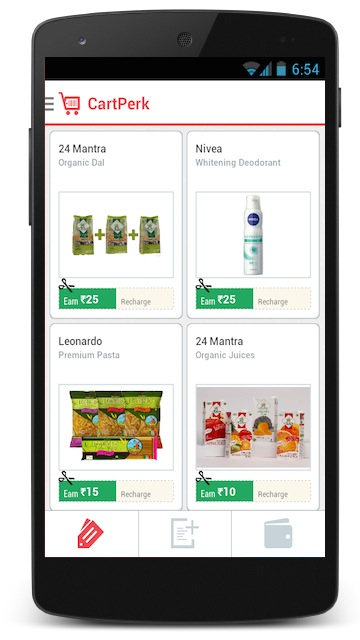
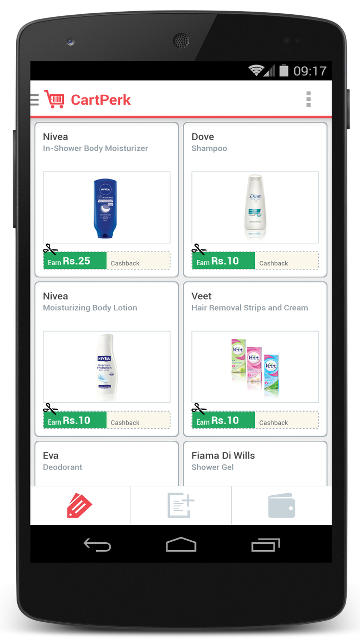
* Update images

diff --git a/index.html b/index.html
@@ -1,18 +1,17 @@
 <!DOCTYPE html>
 <html>
 <head>
-	<title>CartPerk - Go Shopping Get Rewarded</title>
-	<meta charset="utf-8" />
-	<meta content="width=device-width, initial-scale=1, maximum-scale=1" name="viewport">
-	<meta name="twitter:card" content="app">
-	<meta name="twitter:app:name:googleplay" content="CartPerk:Cashback for shopping">	
-	<meta name="twitter:app:id:googleplay" content="com.cartperk.android.cartperk">
-	<meta name="twitter:description" content="Perk up your shopping with CartPerk. Try it by downloading today.">	
-	<meta name="twitter:app:country" content="IN">	
-	<link rel="icon" href="favicon.ico" type="image/x-icon">
-	<link rel="shortcut icon" href="favicon.ico" type="image/x-icon">	
-    <!-- CSS 
-    ================================================== -->
+    <title>CartPerk - Go Shopping Get Rewarded</title>
+    <meta charset="utf-8" />
+    <meta content="width=device-width, initial-scale=1, maximum-scale=1" name="viewport">
+    <meta name="twitter:card" content="app">
+    <meta name="twitter:app:name:googleplay" content="CartPerk:Cashback for shopping">
+    <meta name="twitter:app:id:googleplay" content="com.cartperk.android.cartperk">
+    <meta name="twitter:description" content="Perk up your shopping with CartPerk. Try it by downloading today.">
+    <meta name="twitter:app:country" content="IN">
+    <link rel="icon" href="favicon.ico" type="image/x-icon">
+    <link rel="shortcut icon" href="favicon.ico" type="image/x-icon">
+    <!-- CSS================================================== -->
     <!-- Bootstrap 3-->
     <link href="css/bootstrap.min.css" rel="stylesheet" media="screen">
     <!-- Google Fonts -->
@@ -22,181 +21,171 @@
 </head>
 <body>
 
-	<!-- NAVBAR
-	================================================== -->
-	<nav class="navbar navbar-default" role="navigation">
-		<div class="container-fluid">
-			<div class="navbar-header">
-				<button type="button" class="navbar-toggle" data-toggle="collapse" data-target=".navbar-ex1-collapse">
-					<span class="sr-only">Toggle navigation</span>
-					<span class="icon-bar"></span>
-					<span class="icon-bar"></span>
-					<span class="icon-bar"></span>
-				</button>
+    <!-- NAVBAR================================================== -->
+    <nav class="navbar navbar-default" role="navigation">
+        <div class="container-fluid">
+            <div class="navbar-header">
+                <button type="button" class="navbar-toggle" data-toggle="collapse" data-target=".navbar-ex1-collapse">
+                    <span class="sr-only">Toggle navigation</span>
+                    <span class="icon-bar"></span>
+                    <span class="icon-bar"></span>
+                    <span class="icon-bar"></span>
+                </button>
 
-				<!--Replace text with your app name or logo image-->
-				<a class="navbar-brand" href="#">CartPerk</a>
+                <!-- Replace text with your app name or logo image -->
+                <a class="navbar-brand" href="#">CartPerk</a>
 
-			</div>
-			<div class="collapse navbar-collapse navbar-ex1-collapse">
-				<ul class="nav navbar-nav">
-				</ul>
-			</div>
-		</div>
-	</nav>
+            </div>
+            <div class="collapse navbar-collapse navbar-ex1-collapse">
+                <ul class="nav navbar-nav">
+                </ul>
+            </div>
+        </div>
+    </nav>
 
-	  
-	<!-- HEADER
-	================================================== -->	  
-	<header>
-		<div class="container">
-			<div class="row">
-				<div class="col-sm-5 col-md-4 download">
-					<a href="https://play.google.com/store/apps/details?id=com.cartperk.android.cartperk"><img class="img-responsive" src="img/googleplaystore.png"></a>	
-				</div>				
-				<div class="col-sm-7 col-md-offset-2 col-md-6">
-					<h1 class="brand">CartPerk</h1>
-					<h2 class="lead"><span class="rwd-line">Go Shopping&nbsp;&nbsp;</span><span class="rwd-line">Get Rewarded</span></h2>
-					<div class="carousel-nexus">
-						<div class="carousel-nexus-inner">
-							<img src="img/mobilescreen-red.png">
-						</div>
-					</div>
-				</div>
-			</div>    
-		</div>
-	</header>
+    <!-- HEADER================================================== -->
+    <header>
+        <div class="container">
+            <div class="row-fluid">
+                <div class="col-xs-12 col-sm-12 col-md-4 download">
+                    <a href="https://play.google.com/store/apps/details?id=com.cartperk.android.cartperk"><img class="img-responsive" src="img/googleplaystore.png"></a>    
+                </div>
+                <div class="col-xs-12 col-sm-12 col-md-offset-3 col-md-5">
+                    <h1 class="brand">CartPerk</h1>
+                    <h2 class="lead"><span class="rwd-line">Go Shopping&nbsp;&nbsp;</span><span class="rwd-line">Get Rewarded</span></h2>
+                    <div class="carousel-nexus">
+                        <img src="img/googlenexus-cartperk.png" class="img-responsive center-img nexus-img" align="middle">
+                    </div>
+                </div>
+            </div>
+        </div>
+    </header>
 
+    <!-- Intro============================================================= -->
+    <section class="intro">
+        <div class="container">
+            <div class="text-left">
+                <p><span class="heading">CartPerk</span> allows you to earn exclusive rewards from your favorite brands on your regular shopping. Shop at your nearby store as usual, upload your receipts after shopping and earn a cashback. </p>
+                <p>More receipts you upload, more you earn and the better it gets…</p>
+            </div>
+            <div class="intro-detail">
+                <div class="col-md-4 col-sm-4" >
+                    <img class="img-responsive" src="./img/intro-shop.png" alt="Shopping"></img>
+                    <h3 class="heading">Go Shopping</h3>
+                    <p>Don't forget to collect your receipts</p> 
+                </div>
+                <div class="col-md-4 col-sm-4">
+                    <div>
+                        <img class="img-responsive" src="./img/intro-scanreceipt.png" alt="Receipt"></img>
+                        <h3 class="heading">Upload Receipt</h3>
+                        <p>At your convenience from the comfort of your home</p> 
+                    </div>
+                </div>
+                <div class="col-md-4 col-sm-4">
+                    <div>
+                        <img class="img-responsive" src="./img/intro-earn.png" alt="Reward"></img>
+                        <h3 class="heading">Earn Cashback</h3>
+                        <p>And redeem as mobile recharge</p> 
+                    </div>
+                </div>
+            </div>
+        </div>
+    </section>
+    <br>
+    <br>
+    <br>
+    <hr>
+    <section class="detail">
+        <h1 class="sectionheading">How It Works</h1>
+        <br>
+        <br>
+        <div class="container">
+            <div id="carousel-example-generic-2" class="carousel slide">
 
-	<!-- Intro
-	============================================================= -->
-	<section class="intro">
-		<div class="container">
-			<div class="text-left">
-				<p><span class="heading">CartPerk</span> allows you to earn exclusive rewards from your favorite brands on your regular shopping. Shop at your nearby store as usual, upload your receipts after shopping and earn a cashback. </p>
-				<p>More receipts you upload, more you earn and the better it gets…</p>
-			</div>
-			<div class="intro-detail">
-				<div class="col-md-4 col-sm-4" >
-					<img class="img-responsive" src="./img/intro-shop.png" alt="Shopping"></img>
-					<h3 class="heading">Go Shopping</h3>
-					<p>Don't forget to collect your receipts</p> 
-				</div>
-				<div class="col-md-4 col-sm-4">
-					<div>
-						<img class="img-responsive" src="./img/intro-scanreceipt.png" alt="Receipt"></img>
-						<h3 class="heading">Upload Receipt</h3>
-						<p>At your convenience from the comfort of your home</p> 
-					</div>
-				</div>
-				<div class="col-md-4 col-sm-4">
-					<div>
-						<img class="img-responsive" src="./img/intro-earn.png" alt="Reward"></img>
-						<h3 class="heading">Earn Cashback</h3>
-						<p>And redeem as mobile recharge</p> 
-					</div>
-				</div>			
-			</div>
-		</div>
-	</section>
-	<br>
-	<br>
-	<br>
-	<hr>
-	<section class="detail">
-		<h1 class="sectionheading">How It Works</h1>
-		<br>
-		<br>
-		<div class="container">
-			<div class="row">
-				<div class="col-md-12">
-					<div id="carousel-example-generic-2" class="carousel slide" data-interval="50000">
-										
-					  <!-- Wrapper for slides -->
-					  <div class="carousel-inner">
-					    <div class="item active">
-				      		<div class="row">
-					      		<div class="col-sm-12 col-md-offset-1 col-md-6 info">
-					      			<h3 class="heading">Offers updated every Friday</h3>
-					      			<p>Complete your shopping at a store of your choice and collect your printed receipt</p>
-					      		</div>
-					      		<div class="col-sm-12 col-md-5">
-					      			<div class="app-screenshot">
-					      				<img src="img/screenshots/app-1.jpg" class="img-responsive" alt="App Screen 1">
-					      			</div>
-					      		</div>
-				      		</div>
-					    </div>
-					    <div class="item">
-					    	<div class="row">
-					    		<div class="col-sm-12 col-md-offset-1 col-md-6 info">
-					    			<h3 class="heading">Upload Receipt</h3>
-					    			<p>Take a picture of your receipt, select the applicable offers and upload.</p>
-					    		</div>
-					    		<div class="col-sm-12 col-md-5">
-					    			<div class="app-screenshot">
-					    				<img src="img/screenshots/app-2.jpg" class="img-responsive" alt="App Screen 2">
-					    			</div>
-					    		</div>
-					    	</div>
-						</div>
-					    <div class="item">
-					      <div class="row">
-					      	<div class="col-sm-12 col-md-offset-1 col-md-6 info">
-					      		<h3 class="heading">Redeem</h3>
-					      		<p>Redeem your earnings as mobile recharge</p>
-					      	</div>
-					      	<div class="col-sm-12 col-md-5">
-					      		<div class="app-screenshot">
-					      			<img src="img/screenshots/app-3.jpg" class="img-responsive" alt="App Screen 3">
-					      		</div>
-					      	</div>
-					      </div>
-					    </div>
-					  </div>
-					
-					  <!-- Indicators -->
-					  <ol class="carousel-indicators">
-					    <li data-target="#carousel-example-generic-2" data-slide-to="0" class="active"></li>
-					    <li data-target="#carousel-example-generic-2" data-slide-to="1"></li>
-					    <li data-target="#carousel-example-generic-2" data-slide-to="2"></li>
-					  </ol>		
-					</div>
-				</div>
-			</div>
-		</div>
-	</section>
+              <!-- Wrapper for slides -->
+              <div class="carousel-inner">
+                <div class="item active">
+                    <div class="row">
+                        <div class="col-sm-12 col-md-offset-1 col-md-6 info">
+                            <h3 class="heading">Offers updated every Friday</h3>
+                            <p>Complete your shopping at your favourite grocery store and collect your printed receipt</p>
+                        </div>
+                        <div class="col-sm-12 col-md-5">
+                            <div class="app-screenshot">
+                                <img src="img/screenshots/google-nexus-app-1.jpg" class="img-responsive" alt="App Screen 1">
+                            </div>
+                        </div>
+                    </div>
+                </div>
+                <div class="item">
+                    <div class="row">
+                        <div class="col-sm-12 col-md-offset-1 col-md-6 info">
+                            <h3 class="heading">Upload Receipt</h3>
+                            <p>Take a picture of your receipt, select the applicable offers and upload.</p>
+                        </div>
+                        <div class="col-sm-12 col-md-5">
+                            <div class="app-screenshot">
+                                <img src="img/screenshots/google-nexus-app-2.jpg" class="img-responsive" alt="App Screen 2">
+                            </div>
+                        </div>
+                    </div>
+                </div>
+                <div class="item">
+                  <div class="row">
+                    <div class="col-sm-12 col-md-offset-1 col-md-6 info">
+                        <h3 class="heading">Redeem</h3>
+                        <p>Redeem your earnings as mobile recharge</p>
+                    </div>
+                    <div class="col-sm-12 col-md-5">
+                        <div class="app-screenshot">
+                            <img src="img/screenshots/google-nexus-app-3.jpg" class="img-responsive" alt="App Screen 3">
+                        </div>
+                    </div>
+                </div>
+            </div>
+        </div>
 
-	<!-- Connect ================================================== -->
-	<section class="connect">
-		<div class="container">
-			<div class="row">
-				<div class="col-md-12">
-	  			  	<h2>connect with us</h2>
-					<a href="https://www.facebook.com/cartperk"><img alt="Facebook" class="social-icon" src="img/facebook.png" height="50" width="50"></a>
-					<a href="https://twitter.com/cartperk"><img alt="Twitter" class="social-icon" src="img/twitter.png" height="50" width="50"></a>
-				</div>
-			</div>
-		</div>	  
-	</section>
+        <!-- Indicators -->
+        <ol class="carousel-indicators">
+            <li data-target="#carousel-example-generic-2" data-slide-to="0" class="active"></li>
+            <li data-target="#carousel-example-generic-2" data-slide-to="1"></li>
+            <li data-target="#carousel-example-generic-2" data-slide-to="2"></li>
+        </ol>     
+    </div>
+</div>
+</section>
 
-	<section class="footer">
-		<hr class="footerbreak"/>
-			<ul class="list-inline">
-					<li><a href="mailto:support@cartperk.com">Contact Us</a></li>
-					<li><a href="faq.html">FAQ</a></li>
-					<li><a href="tos.html">Terms of Service</a></li>
-					<li><a href="cpp.html">Privacy Policy</a></li>
-				</div>
-			</ul>
-	</section>
+<!-- Connect ================================================== -->
+<section class="connect">
+    <div class="container">
+        <div class="row">
+            <div class="col-md-12">
+                <h2>connect with us</h2>
+                <a href="https://www.facebook.com/cartperk"><img alt="Facebook" class="social-icon" src="img/facebook.png" height="50" width="50"></a>
+                <a href="https://twitter.com/cartperk"><img alt="Twitter" class="social-icon" src="img/twitter.png" height="50" width="50"></a>
+            </div>
+        </div>
+    </div>    
+</section>
+
+<section class="footer">
+    <hr class="footerbreak"/>
+    <ul class="list-inline">
+        <li><a href="mailto:support@cartperk.com">Contact Us</a></li>
+        <li><a href="faq.html">FAQ</a></li>
+        <li><a href="tos.html">Terms of Service</a></li>
+        <li><a href="cpp.html">Privacy Policy</a></li>
+    </div>
+</ul>
+</section>
 
 
-	 <!-- JAVASCRIPT
-	 ================================================== -->
-	 <script src="js/jquery.js"></script>
-	 <script src="js/bootstrap.min.js"></script>
-	 <script src="js/animatescroll.js"></script>
-	 <script src="js/scripts.js"></script>
-	 <script src="js/retina.min.js"></script>
-</html>
+     <!-- JAVASCRIPT================================================== -->
+     <script src="js/jquery.js"></script>
+     <script src="js/bootstrap.min.js"></script>
+     <script src="js/jquery.mobile.custom.min.js"></script> 
+     <script src="js/animatescroll.js"></script>
+     <script src="js/scripts.js"></script>
+     <script src="js/retina.min.js"></script>
+
+     </html>
